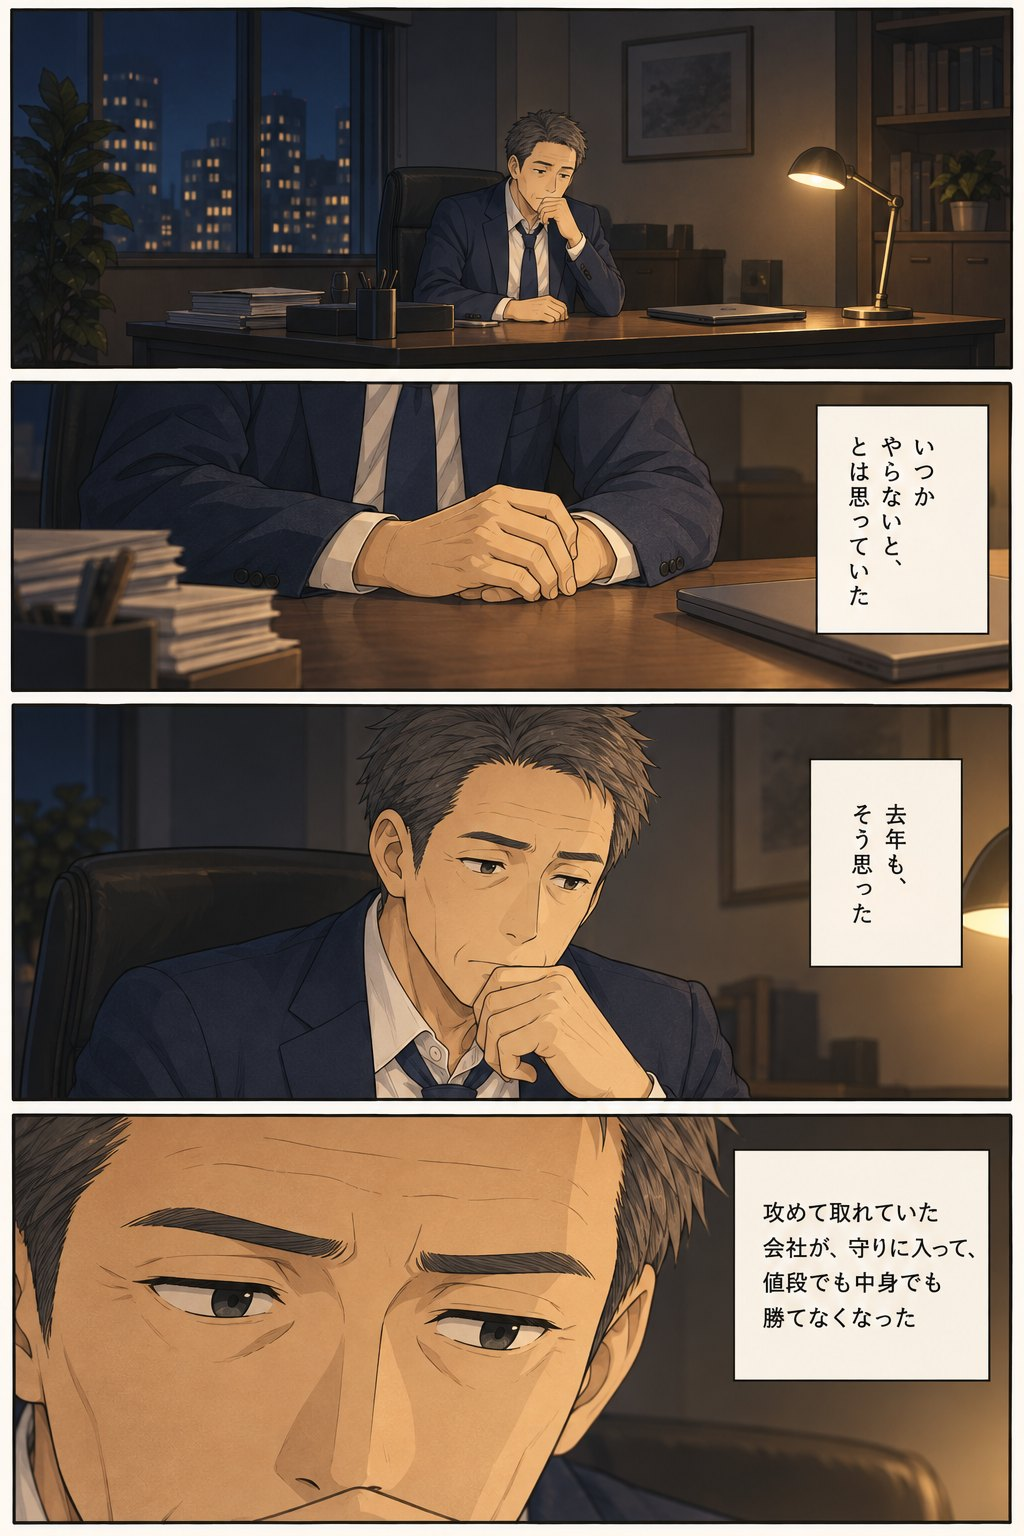
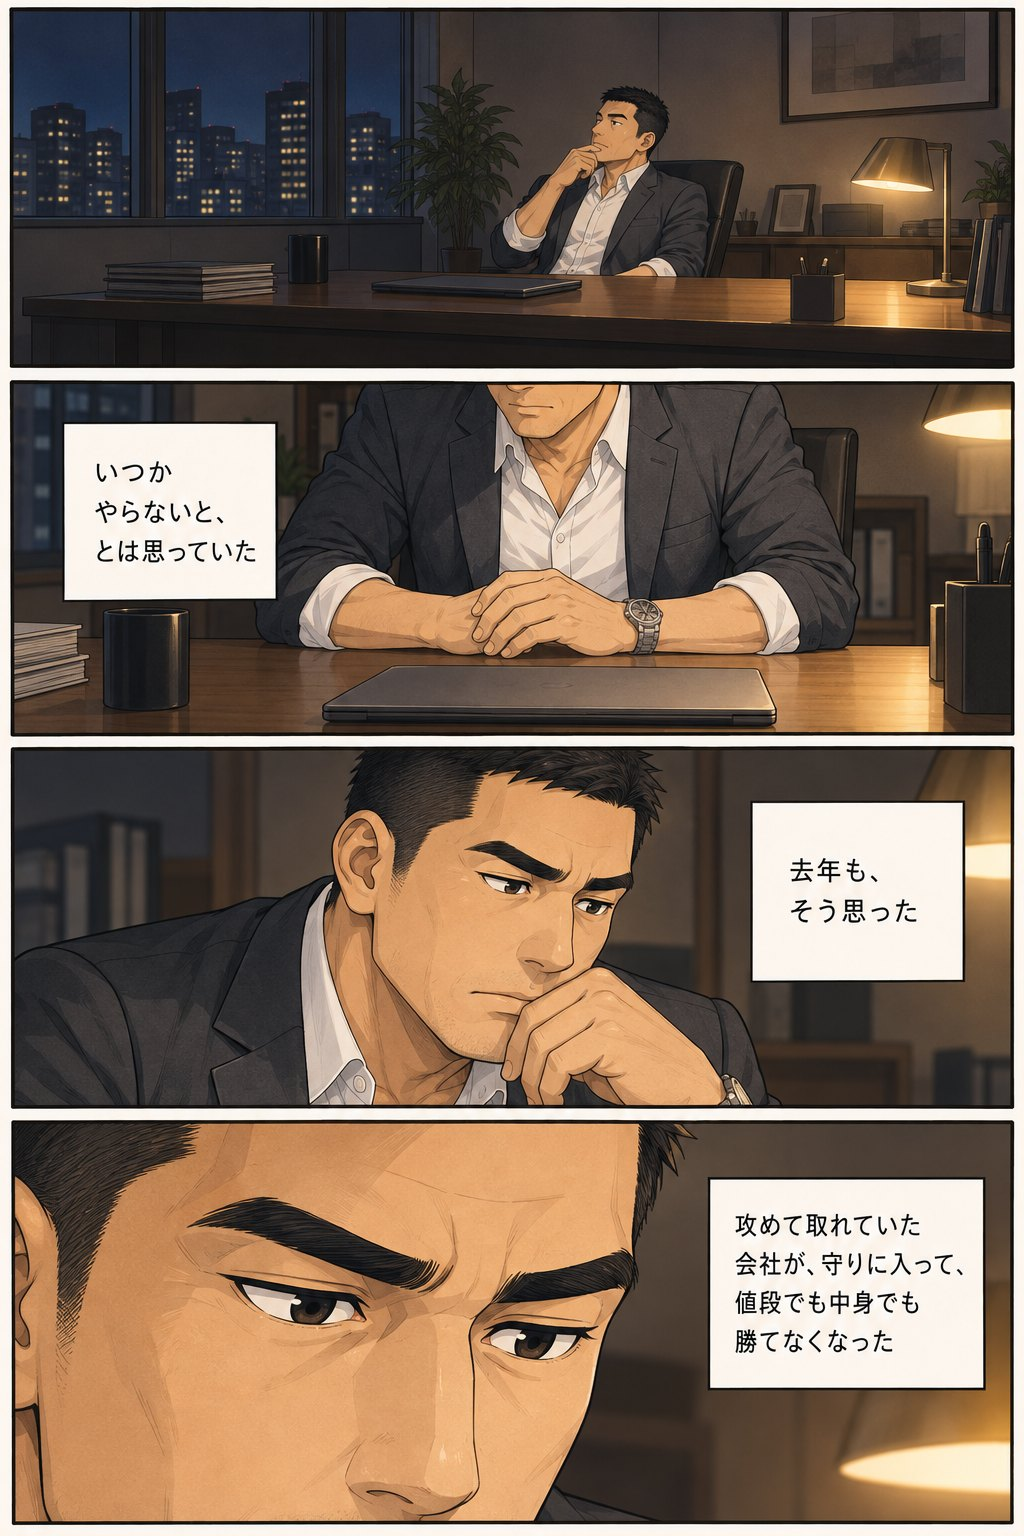
bangai1: 既刊のキャラクターに揃えて全24ページを作り直し
既刊のキャラシートがあるのに使わず、独自に作っていた。
・西山は女性。男性として描いていた
・鷲尾は灰青のカーディガン。黒いニットにしていた
・神崎は40代半ばの体格のいい男でチャコールのジャケット

あわせて、分からないと指摘された4点を本文に入れた:
・P11で名刺と「AI講師 鷲尾 実」、「西山さんから伺いました」で紹介元を明示
・P11で集合と個別の違いをその場で説明
・P12「チャットは答えを返す、これはファイルを作ります」
・P16「ここまでは社長が渡した資料しか読めません」「動く状態にしてからでないと、
  これはつなげません」で起動とMCP接続の依存を明示

助成金研修は契約せず、提案書を返して一か月探し続ける形に変更。
題名を「探していた、一か月」に。

diff --git a/bangai1/index.html b/bangai1/index.html
@@ -3,9 +3,9 @@
 <head>
 <meta charset="utf-8">
 <meta name="viewport" content="width=device-width, initial-scale=1, viewport-fit=cover">
-<title>ある経営者の選択 番外編 〜その一か月半〜 ｜ 漫画</title>
+<title>ある経営者の選択 番外編 〜探していた、一か月〜 ｜ 漫画</title>
 <meta name="description" content="助成金を使うと、十時間以上・職種ごとの組み直し・実務は訓練に使えない。そして社長と役員は対象外。着手は一か月半あと。待つあいだに二件目を失った社長の話。全24ページ。">
-<meta property="og:title" content="ある経営者の選択 番外編 〜その一か月半〜">
+<meta property="og:title" content="ある経営者の選択 番外編 〜探していた、一か月〜">
 <meta property="og:description" content="助成金を使うと、十時間以上・職種ごとの組み直し・実務は訓練に使えない。そして社長と役員は対象外。着手は一か月半あと。待つあいだに二件目を失った社長の話。全24ページ。">
 <meta property="og:type" content="article">
 <meta property="og:image" content="https://mgomita-ui.github.io/hatarakikata4-lp/bangai1/pages/og.jpg">
@@ -67,8 +67,8 @@
 <div class="viewer" id="viewer">
   <section class="slide text" id="intro"><div class="in">
     <p class="eb">Manga ｜ 働き方4.0 ｜ 番外編</p>
-    <h1>待っているあいだに、<br>二件目を失った。</h1>
-    <p>値段はほぼ同じ。ただ向こうは三日で三通り出してきた。AI研修を自分で探した営業会社の社長が、助成金の要件に行き当たる。十時間以上、職種ごとの組み直し、実務は訓練に使えない。そして社長と役員は、助成の対象外。着手は一か月半あと。それでも契約したその日から、待つ時間が始まる。全24ページ。</p>
+    <h1>探しているあいだに、<br>二件目を失った。</h1>
+    <p>値段はほぼ同じ。ただ向こうは三日で三通り出してきた。AI研修を自分で探した営業会社の社長が、助成金の要件に行き当たる。十時間以上、職種ごとの組み直し、実務は訓練に使えない。そして社長と役員は、助成の対象外。着手は一か月半あと。契約せずに持ち帰り、一か月探し続けた。全24ページ。</p>
     <p><button class="btn" id="start">読み始める ›</button>　<a class="btn ghost" href="../manga2/">本編を読む</a></p>
   </div></section>
   <!-- pages injected -->
@@ -84,7 +84,7 @@
 <script>
 (function(){
   var TOTAL=24;
-  var chapters=[[2,'失注'],[5,'提案'],[7,'対象外'],[12,'三時間'],[21,'誓約'],[23,'紙一重']];
+  var chapters=[[2,'失注'],[5,'提案'],[7,'対象外'],[11,'三時間'],[21,'誓約'],[23,'紙一重']];
   var viewer=document.getElementById('viewer'),endEl=document.getElementById('end');
   for(var i=1;i<=TOTAL;i++){var n=('0'+i).slice(-2);var s=document.createElement('section');s.className='slide';s.id='p'+n;
     s.innerHTML='<img src="pages/p'+n+'.jpg" alt="ページ'+i+'" '+(i>2?'loading="lazy"':'')+' width="1024" height="1536"><span class="n">'+n+' / '+TOTAL+'</span>';
